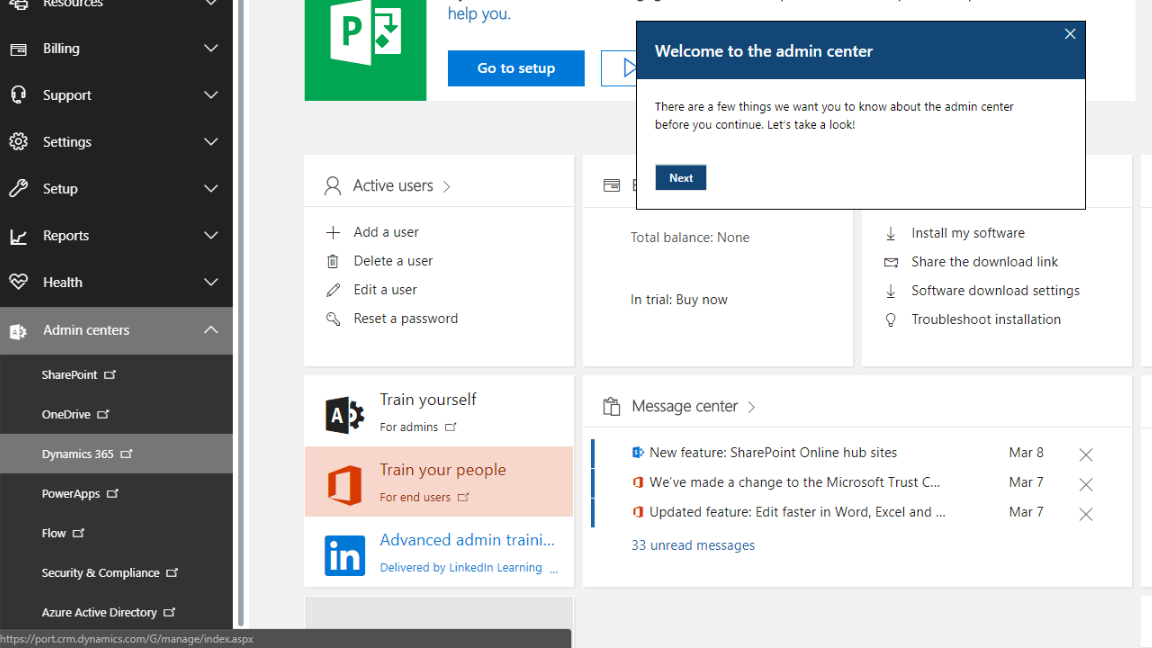
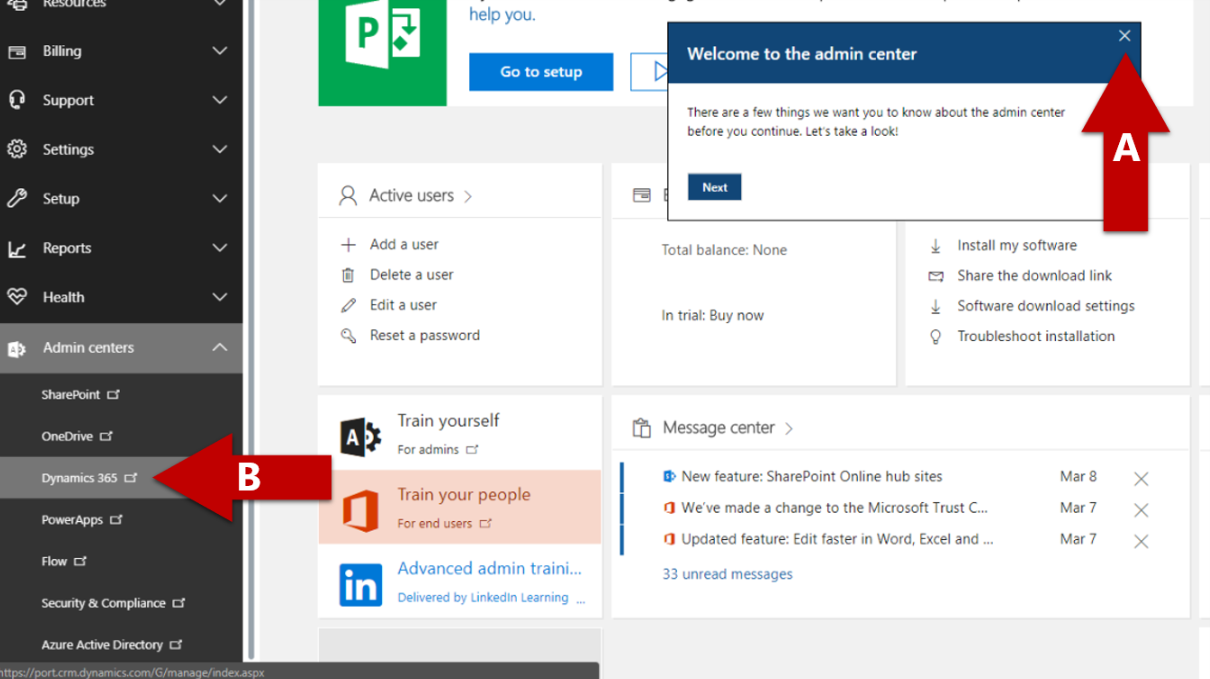
~ 5 more steps

diff --git a/README.md b/README.md
@@ -61,31 +61,27 @@ The goal of this repo is to give you everything you need to set up a Connected F
 
     <img src="imgs/provision-dynfs-trail-email-alert.png">
 
-8. Head over to the [Office Sign-in page](https://portal.office.com/) from step 6 by clicking on [https://portal.office.com/](https://portal.office.com/) and log in with your user ID information from step 4. You should now be in your outlook Mailbox.
+8. Head over to the [Office Sign-in page](https://portal.office.com/) from step 6 by clicking on [https://portal.office.com/](https://portal.office.com/) and log in with your user ID information from step 4. You'll first see a welcome alert, go ahead and hit the `X` button to remove it and then click the Admin app.
 
-9.	NOTE: Sometimes the login prompt is being shown directly after this step.
-Please log-in the newly created user using the User ID created on the previous step (for example, admin@XXXX.onmicrosoft.com)
-NOTE: If the log-in screen fails with a message that the user can’t be found in the system, please wait for a few seconds and try to login again
+  <img src="imgs/office-first-login.png">
 
-10.	Click Next
+  <img src="imgs/office-apps.png">
 
-11.	Write Down Your Organization Name and Administrator Username and Password
+9. Now you should be on the Office admin page.
+  - `A` You'll first see a welcome alert, go ahead and hit the `X` button to remove it
+  - `B` On the left menu click `Dynamics 365`, a new tab will open
 
-12.	Click Set up. NOTE: Login invitation might appear on this step as well, please login using your newly created account
+  <img src="imgs/office-admin-dyn.png">
 
-13.	Select Field Service
+10.	Click Settings
 
-15.	Click Complete Setup
+11.	Click Security
 
-16.	Click Settings
+12.	Click Users
 
-17.	Click Security
+13.	Click on Your User Name
 
-18.	Click Users
-
-19.	Click on Your User Name
-
-20.	On the Command Ribbon, Click Promote to Admin
+14.	On the Command Ribbon, Click Promote to Admin
 
 ## Step 2: Provision Azure Trial
 
